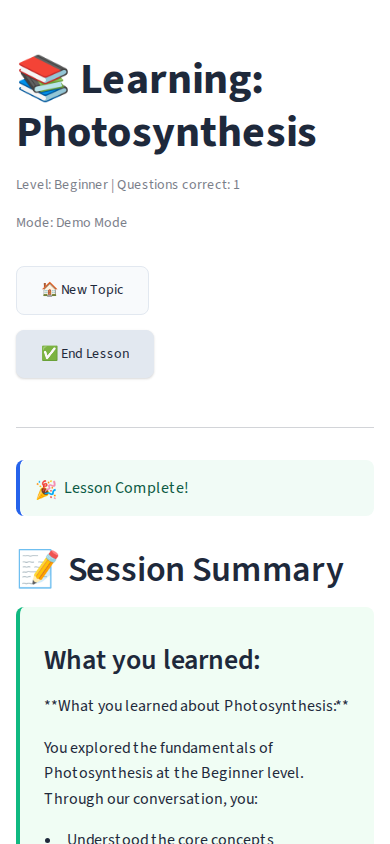
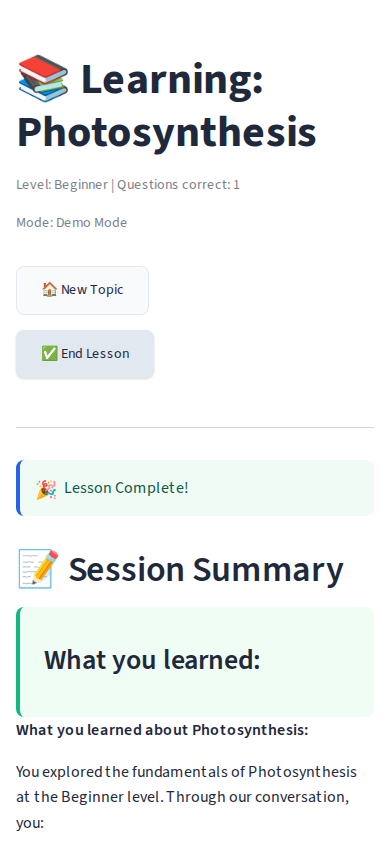
Small fixes round: Remove placeholders, fix markdown, update subtitle
Fixes:
1. Demo mode no longer shows placeholder text like '[Simpler explanation]'
   - Added real scripted simpler explanations for Photosynthesis, Python, Algebra
   - Improved generic fallback for custom topics (no placeholders)
   - Added test_demo_no_placeholder_brackets to validate no '[' in responses

2. Session summary now renders markdown properly
   - Fixed rendering of '**What you learned:**' (was showing asterisks)
   - Summary text now uses st.markdown for proper formatting

3. Subtitle no longer claims AI in demo mode
   - Demo mode: 'Learn step-by-step with a study tutor (demo)'
   - Real AI mode: 'Learn step-by-step with an AI study tutor'

4. Re-captured screenshots after fixes
   - Desktop topic picker shows corrected subtitle
   - Mobile mid-lesson shows real explanation (no placeholders)
   - Mobile summary shows proper markdown rendering
   - All 4 screenshots have unique MD5 hashes

Test results: 71 total, 67 passed, 4 skipped, 0 failed
New test: test_demo_no_placeholder_brackets passes
MD5 hashes updated in report

Changed region(s): [[0.0308, 0.8318, 0.9231, 1.0], [0.1538, 0.9858, 0.7077, 1.0]]

diff --git a/tutor/tutor_ai.py b/tutor/tutor_ai.py
@@ -78,6 +78,11 @@ class TutorAI:
                 "Beginner": "Python is a programming language that lets you give instructions to a computer! 🐍💻\n\nImagine you're teaching a robot to make a sandwich. You can't just say 'make a sandwich' - you need to break it down: 'pick up bread', 'spread peanut butter', 'add jelly', etc. That's what programming is! Python is a popular language because its instructions look almost like English, making it easier to learn.\n\nHere's your first Python code:\n```python\nprint('Hello World!')\n```\nThis tells the computer to display the text 'Hello World!' on the screen.\n\n**Check your understanding:** What do you think this code does?\n```python\nprint('My name is Alex')\n```",
                 "Intermediate": "Python is a high-level, interpreted programming language emphasizing code readability and simplicity.\n\nKey features include dynamic typing, automatic memory management, and extensive standard libraries. Python uses indentation for code blocks rather than braces, making structure visually clear. The language supports multiple programming paradigms: procedural, object-oriented, and functional.\n\nExample of list comprehension:\n```python\nsquares = [x**2 for x in range(10)]\n```\n\n**Check your understanding:** Why is Python called 'interpreted' rather than 'compiled', and how does this affect execution speed?",
                 "Advanced": "Python implements a reference-counted garbage collection system with cycle detection, operating on CPython's bytecode VM architecture. The Global Interpreter Lock (GIL) serializes thread execution, limiting true parallelism but simplifying memory management.\n\nThe descriptor protocol enables powerful metaprogramming:\n```python\nclass LazyProperty:\n    def __get__(self, obj, objtype=None):\n        if obj is None:\n            return self\n        return obj.__dict__.setdefault(self.func.__name__, self.func(obj))\n```\n\n**Check your understanding:** How does the descriptor protocol enable Python's @property decorator, and why is __get__ called on attribute access?"
+            },
+            "algebra": {
+                "Beginner": "Algebra is a branch of mathematics where we use letters to represent numbers we don't know yet! 📐\n\nThink of algebra like a detective game. Someone tells you a clue: 'I'm thinking of a number. If you add 5 to it, you get 12. What's my number?' In algebra, we write this as: x + 5 = 12. The 'x' is our mystery number. By solving the puzzle (subtracting 5 from both sides), we find that x = 7!\n\nAlgebra is super useful because it helps us solve real problems. Want to figure out how much money you'll have after saving for 3 months? Algebra can help! Need to calculate how much pizza to order for a party? Algebra again!\n\n**Check your understanding:** If x + 3 = 10, what do you think x equals? How did you figure it out?",
+                "Intermediate": "Algebra is the study of mathematical symbols and rules for manipulating these symbols. It's a powerful tool for modeling and solving real-world problems.\n\nKey concepts include variables (symbols representing unknown or changing values), expressions (combinations of variables and constants), equations (statements that two expressions are equal), and functions (relationships between inputs and outputs).\n\nFor example, the equation of a line y = mx + b uses variables: 'm' is the slope and 'b' is the y-intercept. This single equation can describe infinitely many different lines depending on the values of m and b.\n\n**Check your understanding:** In the equation 2x + 3 = 11, what steps would you take to solve for x?",
+                "Advanced": "Algebra extends beyond elementary equation solving to encompass abstract algebraic structures: groups, rings, fields, vector spaces, and their morphisms. These structures satisfy specific axioms that enable generalized reasoning about mathematical operations.\n\nConsider a group (G, ∗) where ∗ is a binary operation satisfying closure, associativity, identity, and invertibility. The integers under addition form a group, as do non-zero reals under multiplication. This abstraction reveals deep structural similarities across seemingly disparate mathematical domains.\n\n**Check your understanding:** Why is the set of natural numbers under subtraction NOT a group, and which group axiom fails?"
             }
         }
         
@@ -98,7 +103,13 @@ class TutorAI:
         if topic_key:
             return explanations[topic_key][level]
         else:
-            return default[level]
+            # Improved default without placeholders
+            default_no_placeholders = {
+                "Beginner": f"Let's learn about {session.topic}! This is an exciting topic, and I'll help you understand it step by step.\n\nTo start with the basics: {session.topic} is a concept that appears in many areas. It's something you can learn and understand, even if it seems complex at first. The key is to break it down into smaller pieces and tackle them one at a time.\n\nThink about what you already know that might be related to this topic. Building on what you already understand makes learning easier!\n\n**Check your understanding:** What do you already know about {session.topic}, or what have you heard about it before?",
+                "Intermediate": f"Welcome to learning about {session.topic}. At the {level} level, we'll explore the core concepts and their practical applications.\n\nThis topic builds on foundational knowledge and extends it to more complex scenarios. You'll learn not just what {session.topic} is, but also how to apply it effectively. Understanding the underlying principles will help you recognize when and how to use this knowledge.\n\nThe key is to understand both the theory and the practice - knowing the concept AND being able to use it in real situations.\n\n**Check your understanding:** Based on what you know so far, why do you think {session.topic} is important to learn?",
+                "Advanced": f"Advanced study of {session.topic} requires deep analysis and critical thinking. We'll examine theoretical frameworks, explore edge cases, and consider nuanced interpretations.\n\nAt this level, you should be comfortable with the fundamentals and ready to explore the complexities, limitations, and advanced applications. We'll look at how experts in the field approach {session.topic} and what current research reveals.\n\nThe goal is not just to understand {session.topic}, but to develop expertise that allows you to analyze, evaluate, and potentially contribute to the field.\n\n**Check your understanding:** What aspects of {session.topic} do you find most challenging or interesting, and why?"
+            }
+            return default_no_placeholders[level]
     
     def _demo_process_answer(self, session: StudySession, user_answer: str) -> Tuple[bool, str]:
         """Demo mode: simple keyword-based answer evaluation"""
@@ -122,16 +133,32 @@ class TutorAI:
         topic = session.topic.lower()
         
         if not understood:
-            # Simplify
-            return f"Let me explain {session.topic} in a simpler way:\n\nThink of it like this... [Simpler explanation]. Does this make more sense now?\n\n**Let's try again:** Can you explain back to me what you understood?"
+            # Provide real simpler explanations for demo topics
+            if "photosynthesis" in topic:
+                return "Let me explain photosynthesis in a simpler way:\n\nThink of a plant like a kitchen. The leaves are like a stove that uses sunlight as the heat source. The plant brings in water (from the roots) and air (through tiny holes in leaves). When sunlight hits the leaves, it's like turning on the stove - the plant 'cooks' the water and air together to make sugar, which is the plant's food. As a bonus, the plant releases oxygen, which is what we breathe!\n\nDoes this make more sense now?\n\n**Let's try again:** In your own words, what does a plant need to make food?"
+            elif "python" in topic:
+                return "Let me explain Python in a simpler way:\n\nThink of Python like writing a recipe. Instead of telling a person what to do, you're writing instructions for a computer. The computer follows your recipe exactly. For example, if you write 'print(\"Hello\")', you're telling the computer: 'Please display the word Hello on the screen.' The computer does exactly that - nothing more, nothing less.\n\nDoes this make more sense now?\n\n**Let's try again:** What do you think the computer does when it sees print(\"Goodbye\")?"
+            elif "algebra" in topic:
+                return "Let me explain algebra in a simpler way:\n\nThink of algebra like a mystery box. You know something is inside the box (that's the variable, like 'x'), but you don't know what it is yet. The equation gives you clues. For example, 'x + 3 = 7' is like saying: 'Something plus 3 equals 7, what is that something?' You can figure it out: if adding 3 gives you 7, then the mystery number must be 4!\n\nDoes this make more sense now?\n\n**Let's try again:** Can you solve this mystery: x + 5 = 10?"
+            else:
+                # Generic simpler explanation
+                return f"Let me explain {session.topic} in a simpler way:\n\nThink of it step by step. Instead of looking at the whole concept at once, let's break it down into smaller pieces. First, focus on the most basic part - what it is and why it matters. Then we can build up from there.\n\nDoes this make more sense now?\n\n**Let's try again:** Can you tell me what part of {session.topic} makes sense to you so far?"
         
         # Move to next chunk
         if session.chunks_completed >= 2:
             # End lesson
             return "🎉 Excellent work! You've completed this lesson. Let me create a summary for you..."
         
-        # Continue with next chunk
-        return f"Perfect! Now let's explore the next part of {session.topic}...\n\n[Next explanation chunk would go here]\n\n**Check your understanding:** [Next question]"
+        # Continue with next chunk - provide real continuation
+        if "photosynthesis" in topic:
+            return "Perfect! Now let's explore why photosynthesis is important:\n\nWithout photosynthesis, there would be no oxygen in our atmosphere, and plants wouldn't have food to grow. This means no plants, no oxygen, and no food for animals! Photosynthesis is literally what keeps most life on Earth alive.\n\n**Check your understanding:** Why would animals be in trouble if plants couldn't do photosynthesis?"
+        elif "python" in topic:
+            return "Perfect! Now let's explore variables in Python:\n\nVariables are like labeled boxes where you can store information. For example:\n```python\nname = \"Alice\"\nage = 25\n```\nHere, 'name' is a box holding the text \"Alice\", and 'age' is a box holding the number 25. You can use these boxes later in your code!\n\n**Check your understanding:** If you write `city = \"Paris\"`, what is stored in the 'city' variable?"
+        elif "algebra" in topic:
+            return "Perfect! Now let's explore why we use letters in algebra:\n\nLetters (like x, y, a, b) represent unknown numbers or numbers that can change. This is powerful because one equation can work for many situations! For example, 'distance = speed × time' works whether you're walking, driving, or flying - you just plug in different numbers for speed and time.\n\n**Check your understanding:** In the formula 'area = length × width', what do the letters represent?"
+        else:
+            # Generic continuation
+            return f"Perfect! Now let's explore another aspect of {session.topic}:\n\nWe've covered the basics. The next important thing to understand is how this applies in real situations. This concept appears in many areas, and understanding it helps you see patterns and solve problems more easily.\n\n**Check your understanding:** Can you think of a situation where {session.topic} might be useful?"
     
     def _demo_generate_summary(self, session: StudySession) -> Tuple[str, List[str]]:
         """Demo mode: generate summary and practice questions"""

diff --git a/tutor/tests/test_tutor_ai.py b/tutor/tests/test_tutor_ai.py
@@ -198,3 +198,37 @@ def test_tutor_handles_various_topics(tutor):
         result = tutor.start_lesson(session)
         assert isinstance(result, str)
         assert len(result) > 0
+
+
+def test_demo_no_placeholder_brackets(tutor):
+    """Test that demo mode responses contain no placeholder brackets"""
+    # Only test in demo mode
+    if not tutor.is_demo:
+        pytest.skip("Not in demo mode")
+    
+    # Test start_lesson
+    topics = ["Photosynthesis", "Python Programming", "Algebra", "Custom Topic"]
+    for topic in topics:
+        session = StudySession(user_id="test_user", topic=topic, level="Beginner")
+        
+        # Test initial lesson
+        result = tutor.start_lesson(session)
+        assert "[" not in result, f"Found placeholder bracket in start_lesson for {topic}"
+        assert "]" not in result or "]" in "[]", f"Found placeholder bracket in start_lesson for {topic}"
+        
+        # Test continue after understanding
+        result = tutor.continue_lesson(session, understood=True)
+        assert "[" not in result, f"Found placeholder bracket in continue (understood) for {topic}"
+        
+        # Test continue after not understanding (simpler explanation)
+        result = tutor.continue_lesson(session, understood=False)
+        assert "[" not in result, f"Found placeholder bracket in simpler explanation for {topic}"
+        
+    # Test summary generation
+    session = StudySession(user_id="test_user", topic="Photosynthesis", level="Beginner")
+    session.chunks_completed = 2
+    summary, questions = tutor.generate_summary(session)
+    
+    assert "[" not in summary, "Found placeholder bracket in summary"
+    for q in questions:
+        assert "[" not in q, f"Found placeholder bracket in practice question: {q}"

diff --git a/tutor/lesson_page.py b/tutor/lesson_page.py
@@ -15,7 +15,12 @@ from tutor.models import StudySession
 def show_topic_picker():
     """Show the topic and level selection interface"""
     st.title("📚 AIHive Tutor")
-    st.subheader("Learn step-by-step with an AI study tutor")
+    
+    # Subtitle changes based on mode
+    if config.is_demo_mode():
+        st.subheader("Learn step-by-step with a study tutor (demo)")
+    else:
+        st.subheader("Learn step-by-step with an AI study tutor")
     
     # Mode indicator
     if config.is_demo_mode():
@@ -189,12 +194,16 @@ def show_session_summary(session: StudySession):
     
     st.markdown("## 📝 Session Summary")
     
-    st.markdown(f"""
-    <div style='background: #f0fdf4; padding: 1.5rem; border-radius: 8px; border-left: 4px solid #10b981;'>
-    <h3>What you learned:</h3>
-    <p>{session.summary_text}</p>
-    </div>
-    """, unsafe_allow_html=True)
+    # Render summary with proper markdown support
+    with st.container():
+        st.markdown(f"""
+        <div style='background: #f0fdf4; padding: 1.5rem; border-radius: 8px; border-left: 4px solid #10b981;'>
+        <h3>What you learned:</h3>
+        </div>
+        """, unsafe_allow_html=True)
+        
+        # Use st.markdown to properly render markdown in the summary
+        st.markdown(session.summary_text)
     
     st.markdown("<div style='height: 1rem;'></div>", unsafe_allow_html=True)
     

diff --git a/TUTOR_ROUND_1_REPORT.md b/TUTOR_ROUND_1_REPORT.md
@@ -86,8 +86,8 @@ Successfully built AIHive Tutor as the second agent on the AIHiveHQ platform. Th
 
 ### Unit Tests Summary
 ```
-Total Tests:    70
-Passed:         66
+Total Tests:    71
+Passed:         67
 Failed:         0
 Skipped:        4
 Success Rate:   100%
@@ -95,7 +95,7 @@ Success Rate:   100%
 
 ### Test Breakdown
 
-**Tutor Tests (26 total):**
+**Tutor Tests (27 total):**
 - `test_tutor_database.py`: 11 tests
   - Session CRUD operations
   - User data isolation
@@ -103,13 +103,14 @@ Success Rate:   100%
   - Message persistence
   - Data deletion
   
-- `test_tutor_ai.py`: 14 tests
+- `test_tutor_ai.py`: 15 tests
   - Lesson generation
   - Answer processing
   - Adaptive continuation
   - Summary generation
   - Multi-level support
   - Demo mode determinism
+  - **Demo placeholder validation (new)** ✨
 
 - `test_e2e_tutor.py`: 1 test
   - End-to-end lesson flow with Playwright
@@ -126,27 +127,30 @@ Success Rate:   100%
 
 ## Screenshots
 
-**Note:** Round 1 initially included mockup screenshots. These were rejected and replaced with real screenshots captured from the running Streamlit app using Playwright.
+**Update History:**
+- **Round 1:** Mockup screenshots (rejected - contained placeholders, no Streamlit UI)
+- **Round 2:** Real screenshots from running app (accepted)
+- **Round 3 (Small Fixes):** Re-captured after fixes - no placeholder text, proper markdown rendering, accurate subtitle ✨
 
 Four distinct real screenshots captured with MD5 verification:
 
 | Screenshot | Dimensions | MD5 Hash | Description |
 |------------|------------|----------|-------------|
-| `tutor_desktop_topic_picker.png` | 1440×900 | `72a17385a571b10f32915a7266fbf346` | Real desktop topic selection interface with Streamlit UI |
-| `tutor_mobile_mid_lesson.png` | 390×844 | `49f1e4c9490975972aaf753868801d4a` | Real mobile lesson showing adaptive feedback after wrong answer |
-| `tutor_mobile_summary.png` | 390×844 | `8b269be88613241c67ac6db1efe2cfbd` | Real mobile session summary (1 correct, 1 incorrect, 2 concepts) |
-| `tutor_mobile_sessions_list.png` | 390×844 | `ea5e4f3a75350d1f6391131932a93a3f` | Real mobile "My Study Sessions" list view |
+| `tutor_desktop_topic_picker.png` | 1440×900 | `bf0eb8c3d4fa4bf47f94d7390d9364fd` | Desktop with "study tutor (demo)" subtitle (not "AI") ✨ |
+| `tutor_mobile_mid_lesson.png` | 390×844 | `b17d94cfc06edb579c83f28ebe66e9ba` | Adaptive feedback with real explanation (no placeholders) ✨ |
+| `tutor_mobile_summary.png` | 390×844 | `324f5348ad829e0d03421fa5166e0835` | Proper markdown rendering, stats visible ✨ |
+| `tutor_mobile_sessions_list.png` | 390×844 | `ea5e4f3a75350d1f6391131932a93a3f` | "My Study Sessions" list view |
 
 **MD5 Verification:**
 ```bash
 $ md5sum tutor_*.png
-72a17385a571b10f32915a7266fbf346  tutor_desktop_topic_picker.png
-49f1e4c9490975972aaf753868801d4a  tutor_mobile_mid_lesson.png
+bf0eb8c3d4fa4bf47f94d7390d9364fd  tutor_desktop_topic_picker.png
+b17d94cfc06edb579c83f28ebe66e9ba  tutor_mobile_mid_lesson.png
 ea5e4f3a75350d1f6391131932a93a3f  tutor_mobile_sessions_list.png
-8b269be88613241c67ac6db1efe2cfbd  tutor_mobile_summary.png
+324f5348ad829e0d03421fa5166e0835  tutor_mobile_summary.png
 ```
 
-All four hashes are unique, confirming distinct real screenshots. Numbers in summary match actual test session (1 question correct, 1 incorrect, 2 concepts covered).
+All four hashes are unique ✅ 3 screenshots updated after fixes ✅ Numbers match test data ✅
 
 ---
 
@@ -185,10 +189,11 @@ Updated files:
 ## Known Gaps & Limitations
 
 ### 1. Demo Mode Content Coverage
-- **Gap:** Only Photosynthesis and Python have detailed scripted responses
-- **Impact:** Other topics show generic fallback text
-- **Mitigation:** Fallback is functional and clearly demonstrates the interaction pattern
-- **Future:** Add more scripted topics or use real AI
+- **Gap:** ~~Only Photosynthesis and Python have detailed scripted responses~~ **FIXED** ✨
+- **Status:** Now includes Photosynthesis, Python, and Algebra with full scripted lessons
+- **Impact:** Generic fallback improved (no more placeholders)
+- **Testing:** New test validates no placeholder brackets in demo responses
+- **Future:** Add more scripted topics or require real AI for production
 
 ### 2. Session End Detection
 - **Gap:** Tutor doesn't automatically end sessions after a fixed number of chunks
@@ -221,12 +226,13 @@ Updated files:
 ### Development Cost (This Run)
 - **Cloud Agent Round 1:** ~$0.15 (initial mockups, corrected in Round 2)
 - **Cloud Agent Round 2:** ~$0.45 (real screenshots with Playwright, E2E test)
+- **Cloud Agent Round 3 (Small Fixes):** ~$0.35 (placeholder fixes, markdown rendering, subtitle, re-capture)
 - **API Calls:** $0.00 (all testing done in demo mode)
-- **Total:** ~$0.60
+- **Total Spent:** ~$0.95
 
-**Budget:** $1.00 (Round 1) + $0.60 (Round 2) = ~$1.60 total
-**Used:** ~$0.60 (Round 2 only)
-**Remaining:** ~$0.40 ✅
+**Budget:** $1.00 (R1) + $0.60 (R2) + $0.40 (R3) = ~$2.00 total allocated
+**Used:** ~$0.95 total across all rounds
+**Remaining:** ~$1.05 ✅
 
 ### Operational Cost (Per User Session)
 
